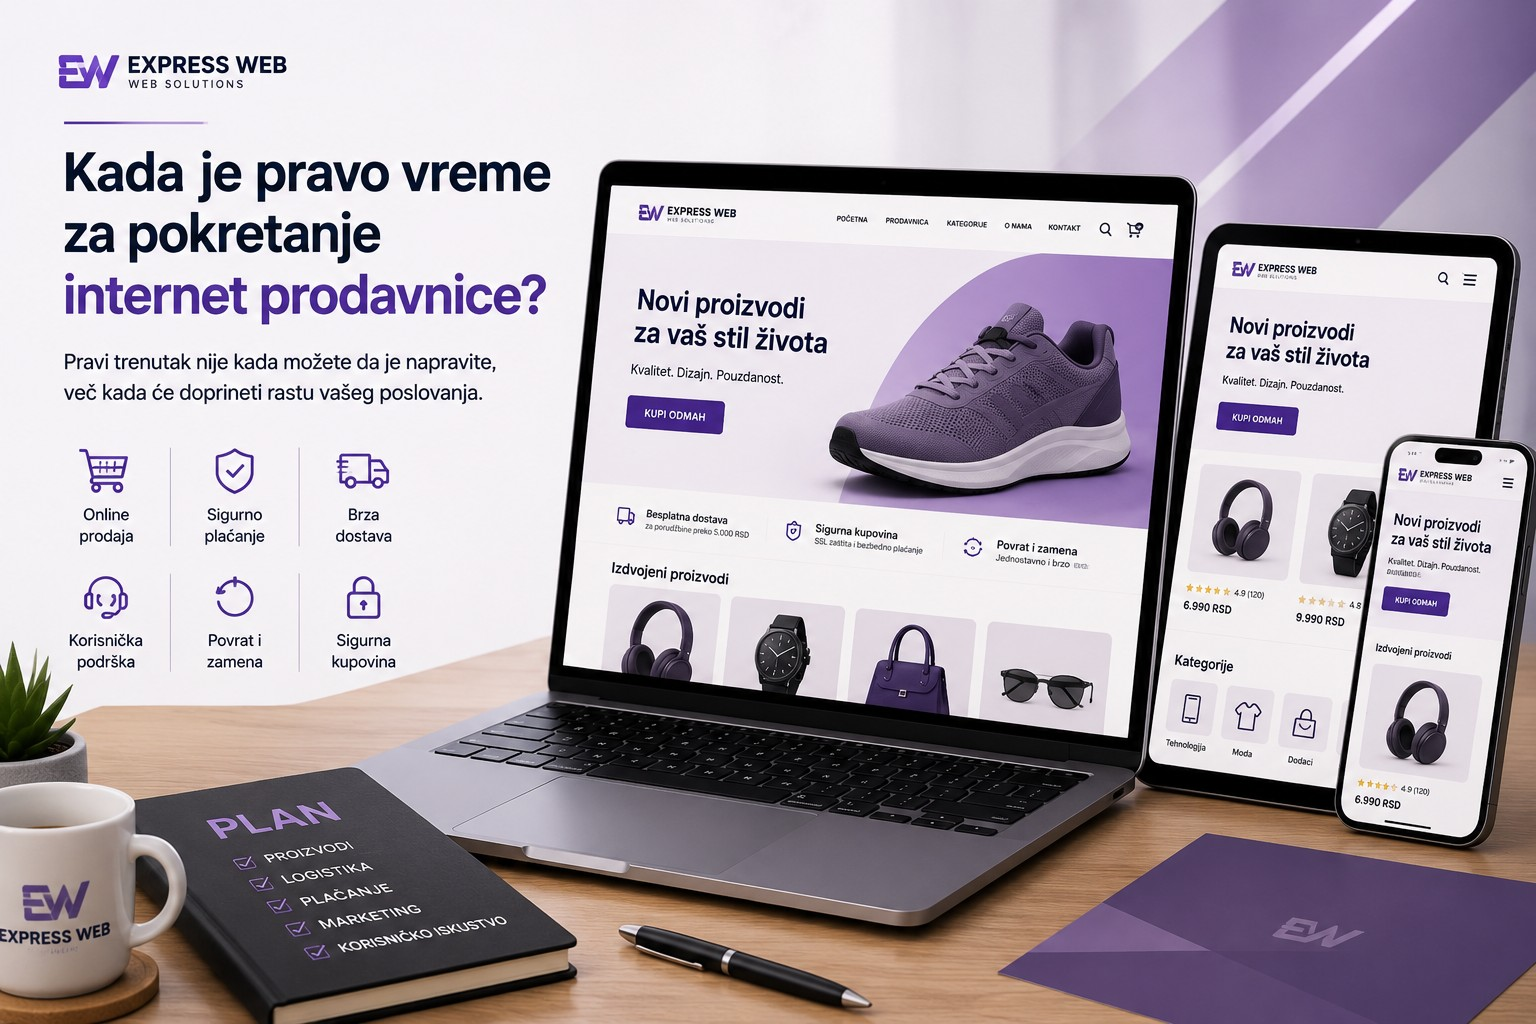
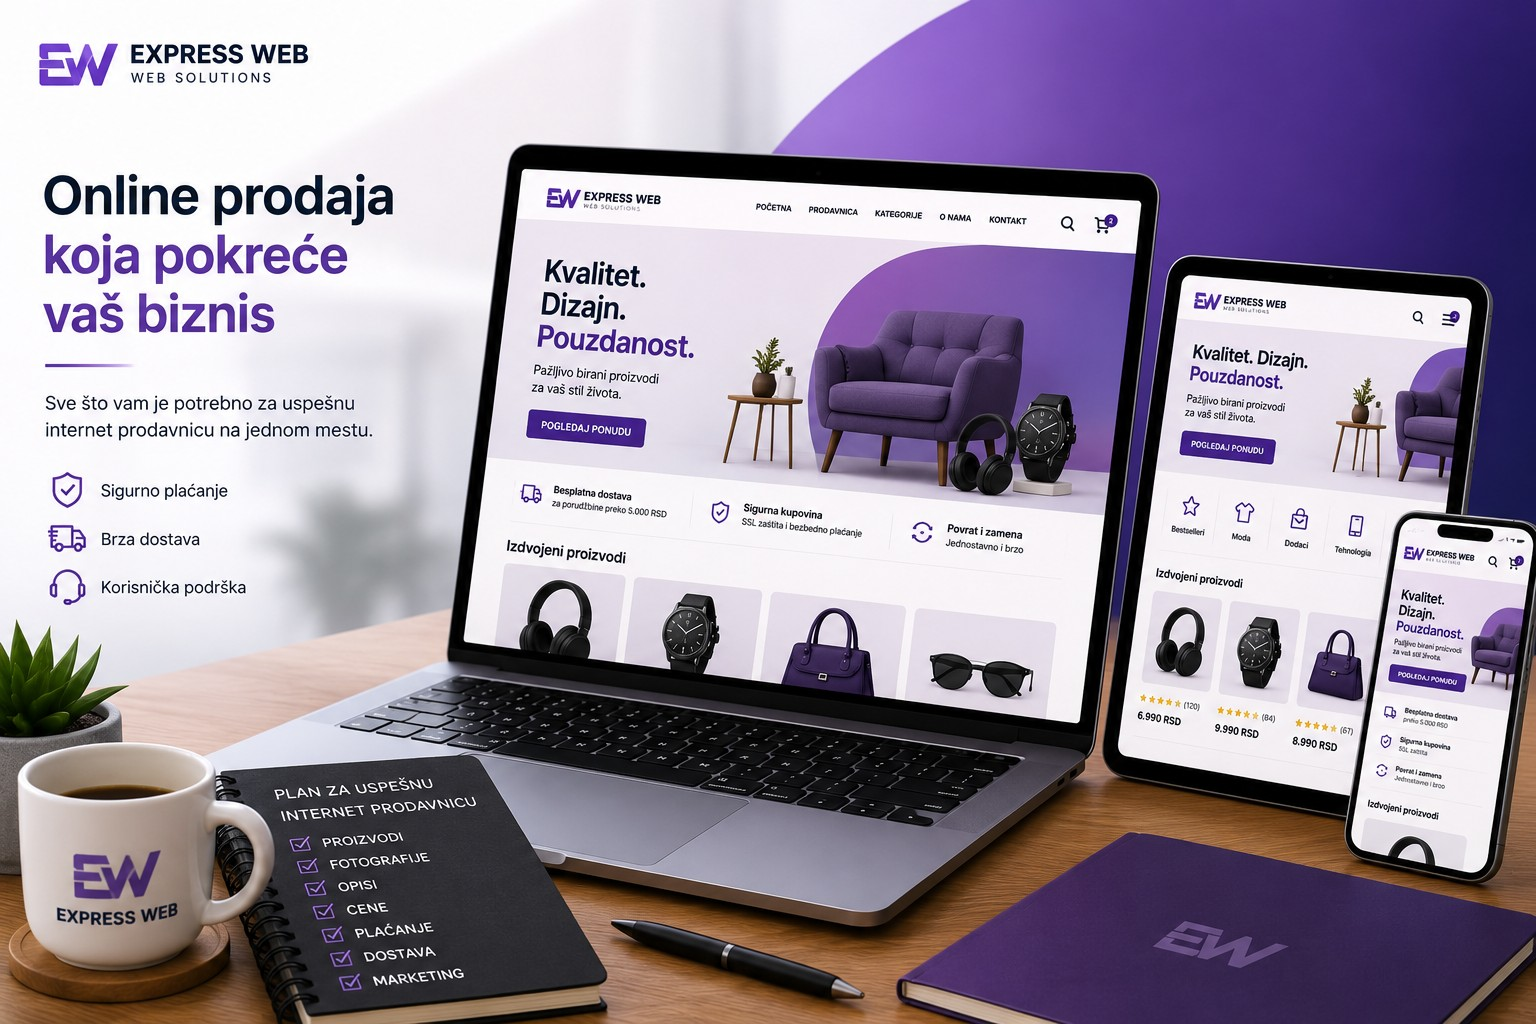
feat(blog): expand multilingual knowledge base with online store guide

diff --git a/frontend/src/blog/data/posts.js b/frontend/src/blog/data/posts.js
@@ -57,7 +57,7 @@ export const posts = [
 
   updatedAt: '2026-07-23',
 
-  image: '/images/blog/online-store/hero.jpg',
+  image: '/images/blog/online-store/card.jpg',
 
   imageAltKey:
     'blog.articles.onlineStore.images.hero.alt',